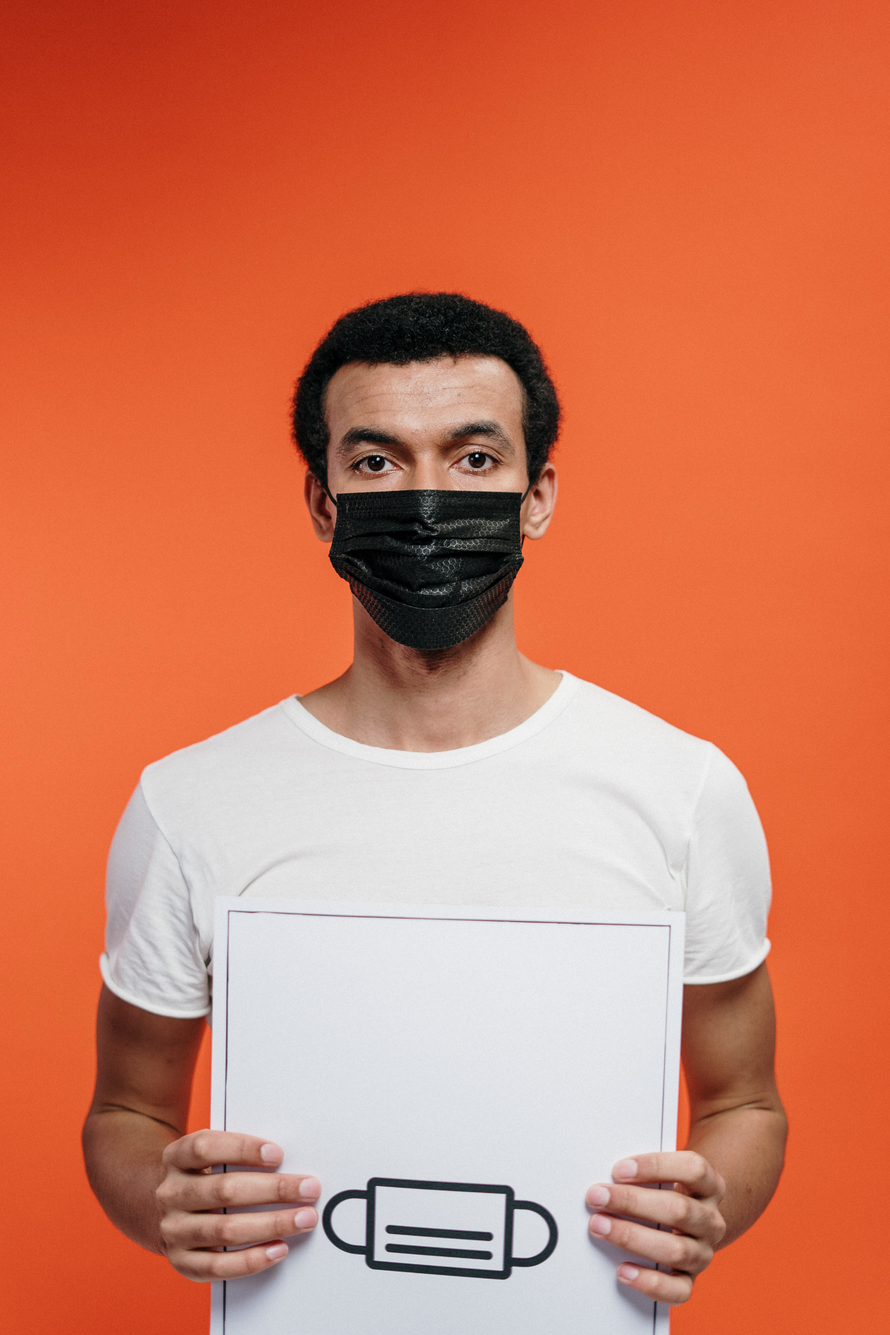
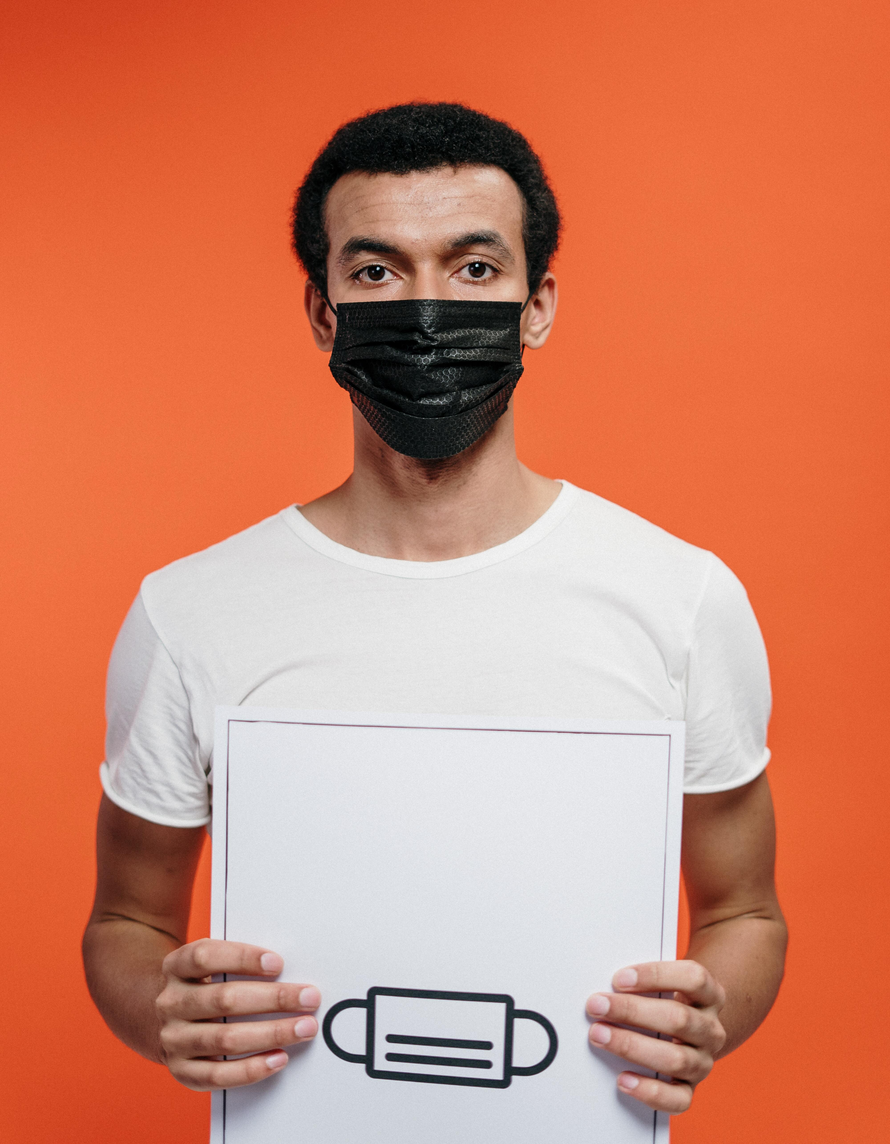
modified images for home page carousel to better fit the pages sizing. changed the stepper tab for WORKING SAFE. Changed images and relevant tabs to hair salon to gym for better reference to the male audience.

Changed region(s): [[0.0, 0.0, 0.9062, 0.9951], [0.2812, 0.622, 0.3438, 0.6531]]

diff --git a/src/components/pages/stepper.js b/src/components/pages/stepper.js
@@ -76,7 +76,7 @@ export default function HorizontalNonLinearStepper() {
         setCompleted({});
     };
 
-    const [alignment, setBackground] = React.useState('hair');
+    const [alignment, setBackground] = React.useState('gym');
     const handleBackground = (
         event: React.MouseEvent<HTMLElement>,
         newAlignment: string,
@@ -91,22 +91,17 @@ export default function HorizontalNonLinearStepper() {
             container.removeChild(container.firstChild);
         }
         let root = ReactDOM.createRoot(container)
-        if (value === 'hair') {
+        if (value === 'gym') {
             root.render(
                 <React.Fragment>
-                    <img src="https://anythingfrenkie.s3.ap-southeast-2.amazonaws.com/MicrosoftTeams-image+(1).jpg" height="100%" width="100%" />
+                    <img src="https://anythingfrenkie.s3.ap-southeast-2.amazonaws.com/MicrosoftTeams-image+(9).png" height="100%" width="100%" />
                     <Tooltip title={<Typography fontSize={15}>
-                        Dispose of used linens or thoroughly sanitise them before their next use. If possible use disposables!
+                        Dispose or thoroughly sanitise used linens between each use. Use disposables where possible!
                     </Typography>} placement="bottom">
                         <div className="child focus disposable"></div>
                     </Tooltip>
                     <Tooltip title={<Typography fontSize={15}>
-                        Close off areas which have been exposed by infected individuals until appropriately sterilised
-                    </Typography>} placement="bottom">
-                        <div className="child focus sanitise"></div>
-                    </Tooltip>
-                    <Tooltip title={<Typography fontSize={15}>
-                        Sanitise common areas and surfaces with medically approved products between each use
+                        Sanitise common areas, surfaces and equipment with medically approved products between each use
                     </Typography>} placement="bottom">
                         <div className="child focus commonarea"></div>
                     </Tooltip>
@@ -115,12 +110,17 @@ export default function HorizontalNonLinearStepper() {
                     </Typography>} placement="right">
                         <div className="child focus ventilation"></div>
                     </Tooltip>
+                    <Tooltip title={<Typography fontSize={15}>
+                        Set up sanitiser stations where possible to encourage customers to sanitise themselves and their surroundings during and after use
+                    </Typography>} placement="top">
+                        <div className="child focus stations"></div>
+                    </Tooltip>
                 </React.Fragment>
             )
         } else if (value === 'tattoo') {
             root.render(
                 <React.Fragment>
-                    <img src='https://anythingfrenkie.s3.ap-southeast-2.amazonaws.com/MicrosoftTeams-image+(4).png' height='100%' width='100%' />
+                    <img src='https://anythingfrenkie.s3.ap-southeast-2.amazonaws.com/MicrosoftTeams-image+(6).png' height='100%' width='100%' />
                     <Tooltip title={<Typography fontSize={15}>
                         Wear a mask and gloves to when working with clients to prevent skin-to-skin contact and respiratory exposure.
                         Ensure to change your gloves between each client
@@ -407,24 +407,19 @@ export default function HorizontalNonLinearStepper() {
                                             onChange={handleBackground}
                                             aria-label="Platform"
                                         >
-                                            <ToggleButton value="hair">Hair Salons</ToggleButton>
+                                            <ToggleButton value="gym">Gym</ToggleButton>
                                             <ToggleButton value="tattoo">Tattoo Studios</ToggleButton>
                                             <ToggleButton value="spa">Massage Parlors</ToggleButton>
                                         </ToggleButtonGroup>
                                         <div className="parent" id='intLocation'>
-                                            <img src="https://anythingfrenkie.s3.ap-southeast-2.amazonaws.com/MicrosoftTeams-image+(1).jpg" height="100%" width="100%" />
+                                            <img src="https://anythingfrenkie.s3.ap-southeast-2.amazonaws.com/MicrosoftTeams-image+(9).png" height="100%" width="100%" />
                                             <Tooltip title={<Typography fontSize={15}>
-                                                Dispose of used linens or thoroughly sanitise them before their next use. If possible use disposables!
+                                                Dispose or thoroughly sanitise used linens between each use. Use disposables where possible!
                                             </Typography>} placement="bottom">
                                                 <div className="child focus disposable"></div>
                                             </Tooltip>
                                             <Tooltip title={<Typography fontSize={15}>
-                                                Close off areas which have been exposed by infected individuals until appropriately sterilised
-                                            </Typography>} placement="bottom">
-                                                <div className="child focus sanitise"></div>
-                                            </Tooltip>
-                                            <Tooltip title={<Typography fontSize={15}>
-                                                Sanitise common areas and surfaces with medically approved products between each use
+                                                Sanitise common areas, surfaces and equipment with medically approved products between each use
                                             </Typography>} placement="bottom">
                                                 <div className="child focus commonarea"></div>
                                             </Tooltip>
@@ -432,6 +427,11 @@ export default function HorizontalNonLinearStepper() {
                                                 Keep your area well ventilated
                                             </Typography>} placement="right">
                                                 <div className="child focus ventilation"></div>
+                                            </Tooltip>
+                                            <Tooltip title={<Typography fontSize={15}>
+                                                Set up sanitiser stations where possible to encourage customers to sanitise themselves and their surroundings during and after use
+                                            </Typography>} placement="top">
+                                                <div className="child focus stations"></div>
                                             </Tooltip>
                                         </div>
                                         <p class='p-text'>

diff --git a/src/components/MpxInfoSlider/MpxInfoSlider.js b/src/components/MpxInfoSlider/MpxInfoSlider.js
@@ -8,13 +8,13 @@ import Grid from '@mui/material/Grid';
 export function MpxInfoSlider(props) {
     var items = [
         {
-            image: 'https://anythingfrenkie.s3.ap-southeast-2.amazonaws.com/MicrosoftTeams-image+(5).png',
+            image: 'https://anythingfrenkie.s3.ap-southeast-2.amazonaws.com/MicrosoftTeams-image+(7).png',
             imageDescription: 'What is monkeypox?',
             name: "What is Monkeypox?",
             description: "Monkeypox is a virus which can infect anybody if sufficiently exposed. The virus had its first outbreak in USA in 2003. "
         },
         {
-            image: 'https://anythingfrenkie.s3.ap-southeast-2.amazonaws.com/MicrosoftTeams-image+(2).png',
+            image: 'https://anythingfrenkie.s3.ap-southeast-2.amazonaws.com/MicrosoftTeams-image+(8).png',
             imageDescription: 'Impact in Victoria',
             name: "Monkeypox's Impact in Victoria?",
             description: "The delayed onset of the global outbreak has reached Australian shores with our first case occuring in May 2022. Since then, Victoria has the highest percentage of australias cases as of September 2022."

diff --git a/src/components/pages/stepper.css b/src/components/pages/stepper.css
@@ -67,23 +67,22 @@
 }
 
 .disposable {
-    top: 14.5%;
-    left: 12%;
-}
-
-.sanitise {
-    top: 32%;
-    left: 40.5%;
+    top: 50%;
+    left: 79%;
 }
 
 .commonarea {
-    top: 55%;
-    right: 10%;
+    top: 40%;
+    left: 37%;
 }
 
 .ventilation {
-    top: 1%;
-    right: 27%;
+    top: 20%;
+    left: 12%;
+}
+.stations{
+    top: 35%;
+    left: 55%;
 }
 
 .focus:hover {
